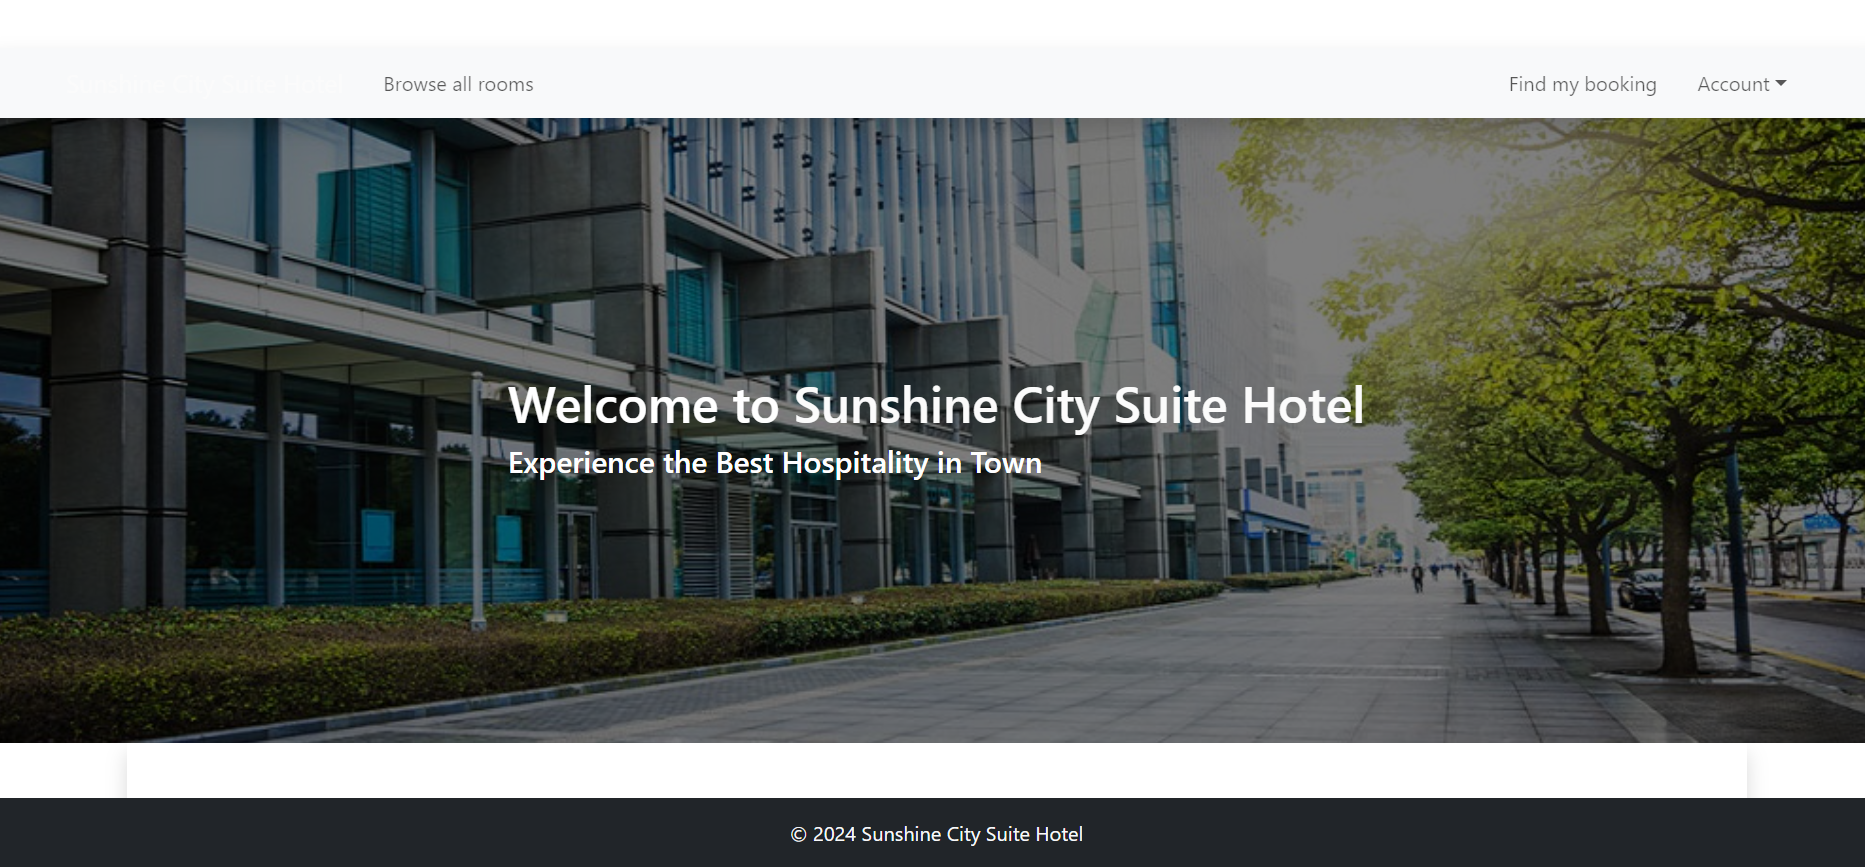
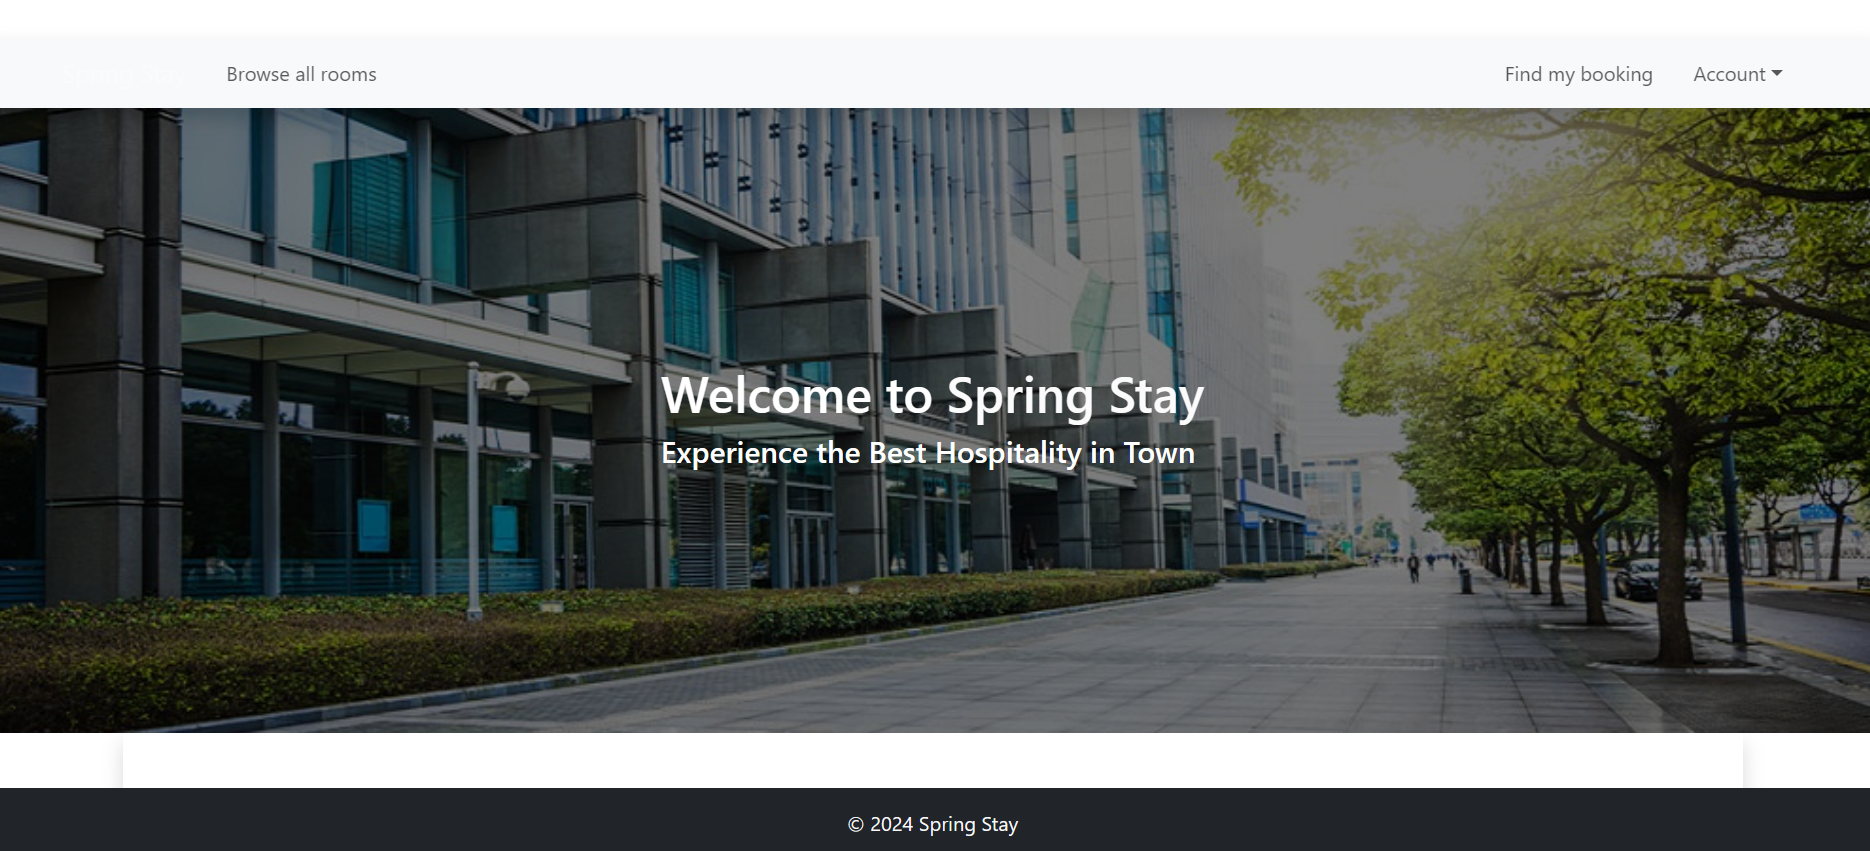
Spring Stay

diff --git a/index.html b/index.html
@@ -3190,11 +3190,11 @@
                         <!-- <div id="spinner"></div> -->
                     </div>
                     <div class="text">
-                        <div class="title bold">Sunshine City Suite</div>
+                        <div class="title bold">Spring Stay</div>
                         <span class="highlight res">Springboot / React</span>
                     </div>
 
-                    <a href="https://github.com/Ankit-Pant1/Sunshine-City-Suite-Hotel" target="_blank">
+                    <a href="https://github.com/Ankit-Pant1/Spring_Stay" target="_blank">
                         <div class="button">Visit</div>
                     </a>
 
